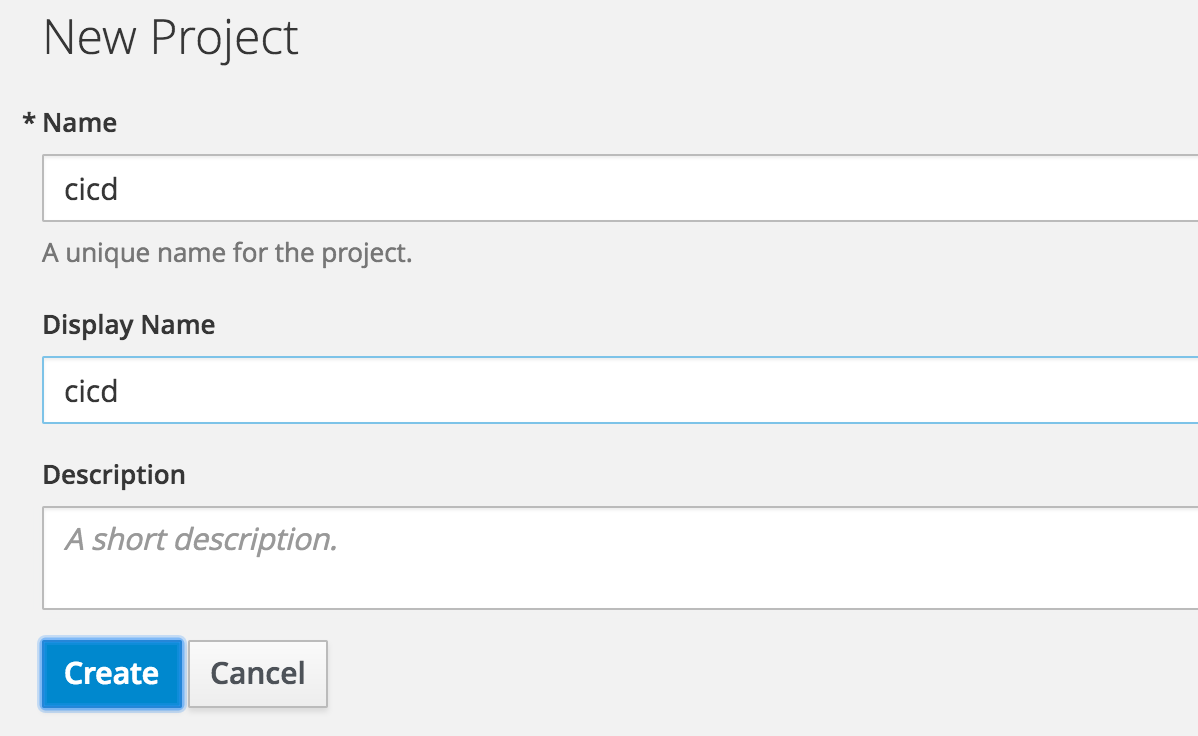
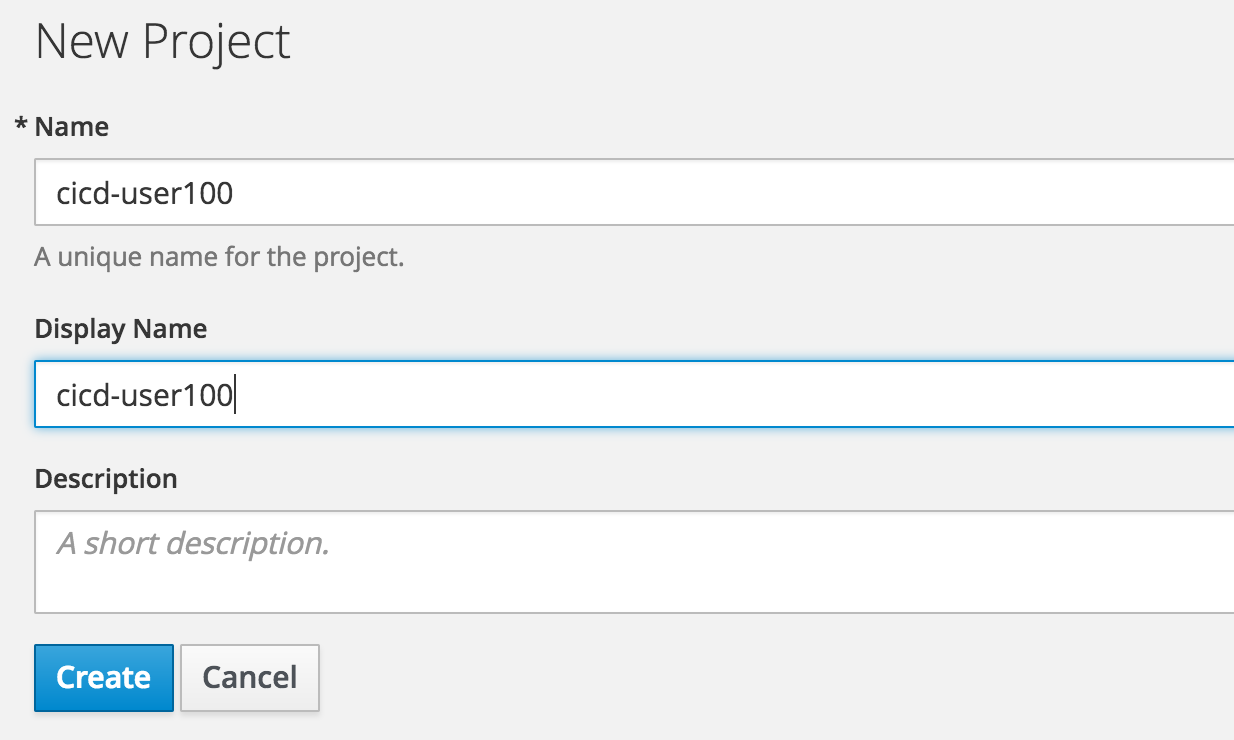
a whollllle lot of fixes

diff --git a/www/3.4/default/workshop-lab-cicd.md b/www/3.4/default/workshop-lab-cicd.md
@@ -27,7 +27,7 @@ To begin, we will create a new project. Name the new project "cicd".
         <i class="fa fa-terminal"></i> Goto the terminal and type the following:
         </blockquote>
         {% highlight csh %}
-        $ oc new-project cicd
+        $ oc new-project cicd-$USER_ID
         {% endhighlight %}
       </div>
     </div>
@@ -45,7 +45,7 @@ To begin, we will create a new project. Name the new project "cicd".
 
         <blockquote>Browse to original landing page, and click "New Project".</blockquote>
         <p><img src="{{ site.baseurl }}/www/3.3/default/screenshots/ose-lab-cicd-new-project.png" width="100"/></p>
-        <blockquote>Fill in the name of the project as "cicd" and click "Create"</blockquote>
+        <blockquote>Fill in the name of the project as "cicd-$USER_ID" and click "Create"</blockquote>
         <p><img src="{{ site.baseurl }}/www/3.3/default/screenshots/ose-lab-cicd-new-project-detail.png" width="500"/></p>
       </div>
     </div>
@@ -71,9 +71,7 @@ First we will start by installing Jenkins to run in a pod within your workshop p
         <i class="fa fa-terminal"></i> Goto the terminal and type the following:
         </blockquote>
         {% highlight csh %}
-        $ oc new-app --template=jenkins-ephemeral -p JENKINS_PASSWORD=password
-        $ oc expose svc jenkins
-        $ oc policy add-role-to-user edit -z default
+        $ oc new-app --template=jenkins-ephemeral
         {% endhighlight %}
 
         <blockquote>Copy hostname and paste in browser's address bar...</blockquote>
@@ -107,146 +105,161 @@ First we will start by installing Jenkins to run in a pod within your workshop p
   </div>
 </div>
 
-### The OpenShift pipeline plugin
-Now let's make sure we have the OpenShift Pipeline [plugin][2] properly installed within Jenkins.  It will be used to define our application lifecycle and to let our Jenkins jobs perform commands on our OpenShift cluster. It is possible that the plugin is already installed in your environment, so use these steps to verify if it is installed and install it if is not.
+### Accessing Jenkins
+Jenkins and OpenShift are integrated together in this version of the product. Upon attempting to access the route for Jenkins, you will be brought to a prompt:
+<p><img src="{{ site.baseurl }}/www/3.4/default/screenshots/ose-lab-cicd-sso1.png" width="400"/></p>
+
+Click the button to "Login to OpenShift" and re-enter your OpenShift user credentials.
+<p><img src="{{ site.baseurl }}/www/3.4/default/screenshots/ose-lab-cicd-sso2.png" width="500"/></p>
+
+You will then be prompted to grant permissions to the service. Click the button to "Allow Selected Permissions".
+<p><img src="{{ site.baseurl }}/www/3.4/default/screenshots/ose-lab-cicd-sso3.png" width="600"/></p>
+If all worked, you should be re-directed to the Jenkins dashboard (which is now running on the OpenShift Container Platform).
+<p><img src="{{ site.baseurl }}/www/3.4/default/screenshots/ose-lab-cicd-sso4.png" width="600"/></p>
+
+### The OpenShift Build pipeline
+
 <div class="panel-group" id="accordionB" role="tablist" aria-multiselectable="true">
   <div class="panel panel-default">
     <div class="panel-heading" role="tab" id="headingBOne">
       <div class="panel-title">
         <a role="button" data-toggle="collapse" data-parent="#accordionB" href="#collapseBOne" aria-expanded="true" aria-controls="collapseBOne">
-          Install OSE Plugin Steps
+          CLI Steps
         </a>
       </div>
     </div>
     <div id="collapseBOne" class="panel-collapse collapse" role="tabpanel" aria-labelledby="headingBOne">
       <div class="panel-body">
-  <blockquote>Click "Manage Jenkins"</blockquote>
-  <p><img src="{{ site.baseurl }}/www/3.1/default/screenshots/ose-lab-cicd-manage-jenkins.png" width="100" height="100"/></p>
+      <blockquote>
+      <i class="fa fa-terminal"></i> Goto the terminal and get the pipeline yaml:
+      </blockquote>
+      {% highlight csh %}
+      $ wget https://raw.githubusercontent.com/openshift/origin/master/examples/jenkins/pipeline/samplepipeline.yaml
+      {% endhighlight %}
 
-  <blockquote>Click on "Manage Plugins"</blockquote>
-  <p><img src="{{ site.baseurl }}/www/3.1/default/screenshots/ose-lab-cicd-manage-plugins.png" width="500" /></p>
+      <blockquote>
+      <i class="fa fa-terminal"></i> Process the template into OpenShift:
+      </blockquote>
+      {% highlight csh %}
+      $ oc new-app -f samplepipeline.yaml
+      {% endhighlight %}
 
-  <blockquote>Click on "Available" tab, and filter on "openshift". Find the"Openshift Pipeline Jenkins Plugin". If it is not installed, then install it.</blockquote>
-  <p><img src="{{ site.baseurl }}/www/3.1/default/screenshots/ose-lab-cicd-jenkins-plugin.png" width="700" /></p>
+
+
+      </div>
+    </div>
+  </div>
+  <div class="panel panel-default">
+    <div class="panel-heading" role="tab" id="headingBTwo">
+      <div class="panel-title">
+        <a class="collapsed" role="button" data-toggle="collapse" data-parent="#accordionB" href="#collapseBTwo" aria-expanded="false" aria-controls="collapseBTwo">
+          Web Console Steps
+        </a>
+      </div>
+    </div>
+    <div id="collapseBTwo" class="panel-collapse collapse" role="tabpanel" aria-labelledby="headingBTwo">
+      <div class="panel-body">
+      <blockquote>Copy the YAML from the following URL</blockquote>
+      {% highlight csh %}
+        https://raw.githubusercontent.com/openshift/origin/master/examples/jenkins/pipeline/samplepipeline.yaml
+      {% endhighlight %}
+
+      <blockquote>Click "Add to Project" and select the tab that says "Import YAML/JSON". Paste the YAML from the previous link.</blockquote>
+      <p><img src="{{ site.baseurl }}/www/3.4/default/screenshots/ose-lab-cicd-importyaml.png" width="500"/></p>
+      <blockquote>Click "Create"</blockquote>
+      <blockquote>You will be prompted to Process or Save the template. Leave "Process Template" checked and click "Continue".</blockquote>
+      <p><img src="{{ site.baseurl }}/www/3.4/default/screenshots/ose-lab-cicd-processtemplate.png" width="500"/></p>
+      <blockquote>You will be be directed to the "Create App" page. Accept all default values, scroll to the bottom of the page, and click "Create".</blockquote>
+      <p><img src="{{ site.baseurl }}/www/3.4/default/screenshots/ose-lab-cicd-runtemplate.png" width="500"/></p>
       </div>
     </div>
   </div>
 </div>
+
+
+### Verify
+If all went as planned, you should see a setup similar to the image below. There is an application deployed with a Node.js frontend and a MongoDB backend. The Node.js front end has not been built or deployed yet.
+<p><img src="{{ site.baseurl }}/www/3.4/default/screenshots/ose-lab-cicd-pipelineresult1.png" width="600"/></p>
+Click "Builds" -> "Pipelines"
+<p><img src="{{ site.baseurl }}/www/3.4/default/screenshots/ose-lab-cicd-pipelineresult2.png" width="300"/></p>
+You should see a new Pipeline object called "sample-pipeline"
+<p><img src="{{ site.baseurl }}/www/3.4/default/screenshots/ose-lab-cicd-pipelineresult3.png" width="600"/></p>
+Expand the details, and click the "Configuration" tab. From here, you can see the Groovy code that executes the Jenkins pipeline.
+<p><img src="{{ site.baseurl }}/www/3.4/default/screenshots/ose-lab-cicd-pipelineresult4.png" width="600"/></p>
+
+
+### Run the Pipeline
+<blockquote>
+Click "Builds" -> "Pipelines"
+</blockquote>
+<p><img src="{{ site.baseurl }}/www/3.4/default/screenshots/ose-lab-cicd-pipelineresult2.png" width="300"/></p>
+
+<blockquote>
+At the top of the page, we you should see a button that says "Start Pipeline". Click the button.
+</blockquote>
+<p><img src="{{ site.baseurl }}/www/3.4/default/screenshots/ose-lab-cicd-startpipeline1.png" width="200"/></p>
+
+<blockquote>
+You should see a pipeline visually display in the browser as shown below.
+</blockquote>
+<p><img src="{{ site.baseurl }}/www/3.4/default/screenshots/ose-lab-cicd-startpipeline2.png" width="600"/></p>
+
+<blockquote>
+We can verify view logs of the pipeline in Jenkins by clicking "View Log" on the pipeline.
+</blockquote>
+<p><img src="{{ site.baseurl }}/www/3.4/default/screenshots/ose-lab-cicd-startpipeline4.png" width="200"/></p>
+<blockquote>
+You are then re-directed to the Console in Jenkins which contains the output from the Pipeline execution.
+</blockquote>
+<p><img src="{{ site.baseurl }}/www/3.4/default/screenshots/ose-lab-cicd-startpipeline5.png" width="600"/></p>
+<blockquote>
+When the pipeline completes all the steps, the Node.js application will be built and deployed. All of this was orchestrated by Jenkins on the back end.
+</blockquote>
+<p><img src="{{ site.baseurl }}/www/3.4/default/screenshots/ose-lab-cicd-startpipeline3.png" width="600"/></p>
 
 
 You can read more about the plugin [here][3].
 
 
-### Our deployments
-In this example pipeline we will be building, tagging, staging and scaling a Node.js webapp.  We wrote all the code for you already, so don't worry you won't be coding in this lab.  You will just use the code and unit tests to see how CI/CD pipelines work.  And keep in mind that these principles are relevant whether your programming in Node.js, Ruby on Rails, Java, PHP or any one of today's popular programming languages.
+### Edit the Pipeline
 
-<blockquote>Fork the project into your own GitHub account</blockquote>
-<p><img src="{{ site.baseurl }}/www/3.1/default/screenshots/ose-lab-cicd-fork.png" width="700" /></p>
-
-<blockquote>Create a dev deployment based on the forked repo
+<blockquote>
+On the <strong>sample-pipeline</strong> details page, go to the <strong>Actions</strong> button and select <strong>Edit</strong>.
 </blockquote>
-<blockquote><i class="fa fa-terminal"></i> Goto the terminal and type the following:</blockquote>
-<p>
-{% highlight csh %}
-$ oc new-app https://github.com/YOUR_ACCOUNT/openshift-workshops.git \
-   --name=dev --context-dir=dc-metro-map
-$ oc expose svc/dev
-{% endhighlight %}</p>
-
-<blockquote>Create a test deployment based on a tag of the dev ImageStream
+<p><img src="{{ site.baseurl }}/www/3.4/default/screenshots/ose-lab-cicd-editpipeline1.png" width="200"/></p>
+<blockquote>
+Append the following script after the <strong>stage(deploy)</strong> element.
 </blockquote>
-<blockquote><i class="fa fa-terminal"></i> Goto the terminal and type the following:</blockquote>
-<p>
 {% highlight csh %}
-$ oc new-app dev:readyToTest --name=test --allow-missing-imagestream-tags
-$ oc expose dc/test --port 8080
-$ oc expose svc/test
-{% endhighlight %}</p>
+stage('scale'){
+    openshiftScale(deploymentConfig: 'nodejs-mongodb-example', replicaCount: 3)
+}
+{% endhighlight %}
 
-#### Setup Jekins jobs to use their openshift image stream (which is off your GitHub fork)
+<p><img src="{{ site.baseurl }}/www/3.4/default/screenshots/ose-lab-cicd-editpipeline2.png" width="600"/></p>
 
-<div class="panel-group" id="accordionC" role="tablist" aria-multiselectable="true">
-  <div class="panel panel-default">
-    <div class="panel-heading" role="tab" id="headingCOne">
-      <div class="panel-title">
-        <a role="button" data-toggle="collapse" data-parent="#accordionC" href="#collapseCOne" aria-expanded="true" aria-controls="collapseCOne">
-          Steps to Create Jenkins Job
-        </a>
-      </div>
-    </div>
-    <div id="collapseCOne" class="panel-collapse collapse" role="tabpanel" aria-labelledby="headingCOne">
-      <div class="panel-body">
-<blockquote>click "New Item"</blockquote>
-<p><img src="{{ site.baseurl }}/www/3.1/default/screenshots/ose-lab-cicd-new-item.png" width="500" /></p>
-<blockquote>call it yourname-ci-devel, select freestyle, click OK</blockquote>
-<p><img src="{{ site.baseurl }}/www/3.1/default/screenshots/ose-lab-cicd-name-job.png" width="500" /></p>
-<blockquote>Click add build step and choose "Tag OpenShift Image". Enter in all the info, tag as "readyToTest"</blockquote>
-<p><img src="{{ site.baseurl }}/www/3.3/default/screenshots/ose-lab-cicd-new-tag.png" width="700" /></p>
+<blockquote>
+Click "Save"
+</blockquote>
 
-<blockquote>In the "Post-build actions" subsection click "Add post-build action" and select "Build other projects". Type in "yourname-ci-deploytotest"</blockquote>
-<p><img src="{{ site.baseurl }}/www/3.1/default/screenshots/ose-lab-cicd-build-other-project.png" width="500" /></p>
-<blockquote>Click "Save", don't worry about the error here, we are about to build that Jenkins job.</blockquote>
+<blockquote>
+Click "Start Build"
+</blockquote>
 
-<p>
-<b>Notes:</b> You will not need the URL of the OpenShift api endpoint or the Authorization Token<br/>
-to get this to work
-</p>
-      </div>
-    </div>
-  </div>
-</div>
-</div>
+<blockquote>
+You should see a new Pipeline execution, which has a third step called <strong>scale</strong>
+</blockquote>
+<p><img src="{{ site.baseurl }}/www/3.4/default/screenshots/ose-lab-cicd-editpipeline3.png" width="600"/></p>
 
-#### Connecting the pipeline for dev->test
-<div class="panel-group" id="accordionD" role="tablist" aria-multiselectable="true">
-  <div class="panel panel-default">
-    <div class="panel-heading" role="tab" id="headingDOne">
-      <div class="panel-title">
-        <a role="button" data-toggle="collapse" data-parent="#accordionD" href="#collapseDOne" aria-expanded="true" aria-controls="collapseDOne">
-          Steps to Connect Pipeline
-        </a>
-      </div>
-    </div>
-    <div id="collapseDOne" class="panel-collapse collapse" role="tabpanel" aria-labelledby="headingDOne">
-      <div class="panel-body">
-<blockquote>Click "Back to dashboard"</blockquote>
-<blockquote>Click "New Item"</blockquote>
-<blockquote>Call it "yourname-ci-deploytotest", select "freestyle", click "OK"</blockquote>
-<p><img src="{{ site.baseurl }}/www/3.1/default/screenshots/ose-lab-cicd-deploy-to-test.png" width="500" /></p>
-<blockquote>Click add build step and choose "Execute shell"</blockquote>
-<p><img src="{{ site.baseurl }}/www/3.1/default/screenshots/ose-lab-cicd-add-exec.png" width="200" /></p>
-Additional steps could go here. For now let's just add some bash to the text area:
-{% highlight csh %}
-echo "inside my jenkins job"
-{% endhighlight%}
-<blockquote>Click add build step and choose "Trigger OpenShift Deployment".</blockquote>
-<p><img src="{{ site.baseurl }}/www/3.3/default/screenshots/ose-lab-cicd-trigger-deployment.png" width="700" /></p>
-<blockquote>Click add build step and choose "Scale OpenShift Deployment".</blockquote>
-<p><img src="{{ site.baseurl }}/www/3.3/default/screenshots/ose-lab-cicd-scale-deployment.png" width="700" /></p>
-<blockquote>Click "Save".</blockquote>
-<p><img src="{{ site.baseurl }}/www/3.3/default/screenshots/ose-lab-cicd-save.png" width="200" /></p>
-      </div>
-    </div>
-  </div>
-</div>
-
-### Watch me release!
-
-At this point you should see the following scenario play out:
-
-  * Inside of Jenkins, you will click the dev pipline that was created we created. On the left-hand side you will see an option to <img src="{{ site.baseurl }}/www/3.3/default/screenshots/ose-lab-cicd-build-now.png" width="100" />. When you click this, the first job will begin to run.
-
-  * This first job will use the OpenShift Pipeline plugin to create a new tag of the image called "readyToTest".
-
-  * When this job completes, a second job will execute. This second job cause the deployment to initiate of our test application and then scale the test application to 2 pods.
-
-  * You can see the history of this new tag by browsing to initiate two jobs in the pipeline with the final step being the new tag of "readyToTest". The new tag can then be used for automatic or manual builds of the new test application. You can view the status of the new tag in OpenShift by browsing to Builds -> Images -> your image stream
-
-  <p><img src="{{ site.baseurl }}/www/3.3/default/screenshots/ose-lab-cicd-image-stream-view.png" width="700" /></p>
-
+<blockquote>
+When the pipeline terminates, you can browse back to the "Overview". You will then see that the Node.js application has been scaled up by the OpenShift/Jenkins pipeline to 3 replicas.
+</blockquote>
+<p><img src="{{ site.baseurl }}/www/3.4/default/screenshots/ose-lab-cicd-editpipeline4.png" width="600"/></p>
 
 ## Summary
-Coming soon...  Read more about usage of [Jenkins on OpenShift here][4].  Read more about the concepts behind [pipelines in Jenkins here][1].
+In this lab, we have seen the integration between Jenkins and OpenShift to orchestrate complex CI/CD pipelines with Images running on OpenShift. Feel free to explore different CICD flows using the OpenShift Pipeline Plugin and be sure to ask one of the instructors if you run into any problems or have any questions.
+
+Read more about usage of [Jenkins on OpenShift here][4].  Read more about the concepts behind [pipelines in Jenkins here][1].
 
 
 [1]: https://jenkins.io/doc/pipeline/

diff --git a/www/3.4/default/workshop-lab-bluegreen.md b/www/3.4/default/workshop-lab-bluegreen.md
@@ -12,9 +12,7 @@ When implementing continuous delivery for your software one very useful techniqu
 ### Before starting
 Before we get started with the Blue/Green deployment lab, let us clean up some of the projects from the previous lab.
 {% highlight csh %}
-$ oc delete all -l app=jenkins-ephemeral
-$ oc delete all -l app=dev
-$ oc delete all -l app=test
+$ oc delete all -all
 {% endhighlight %}
 
 ### Let's deploy an application
